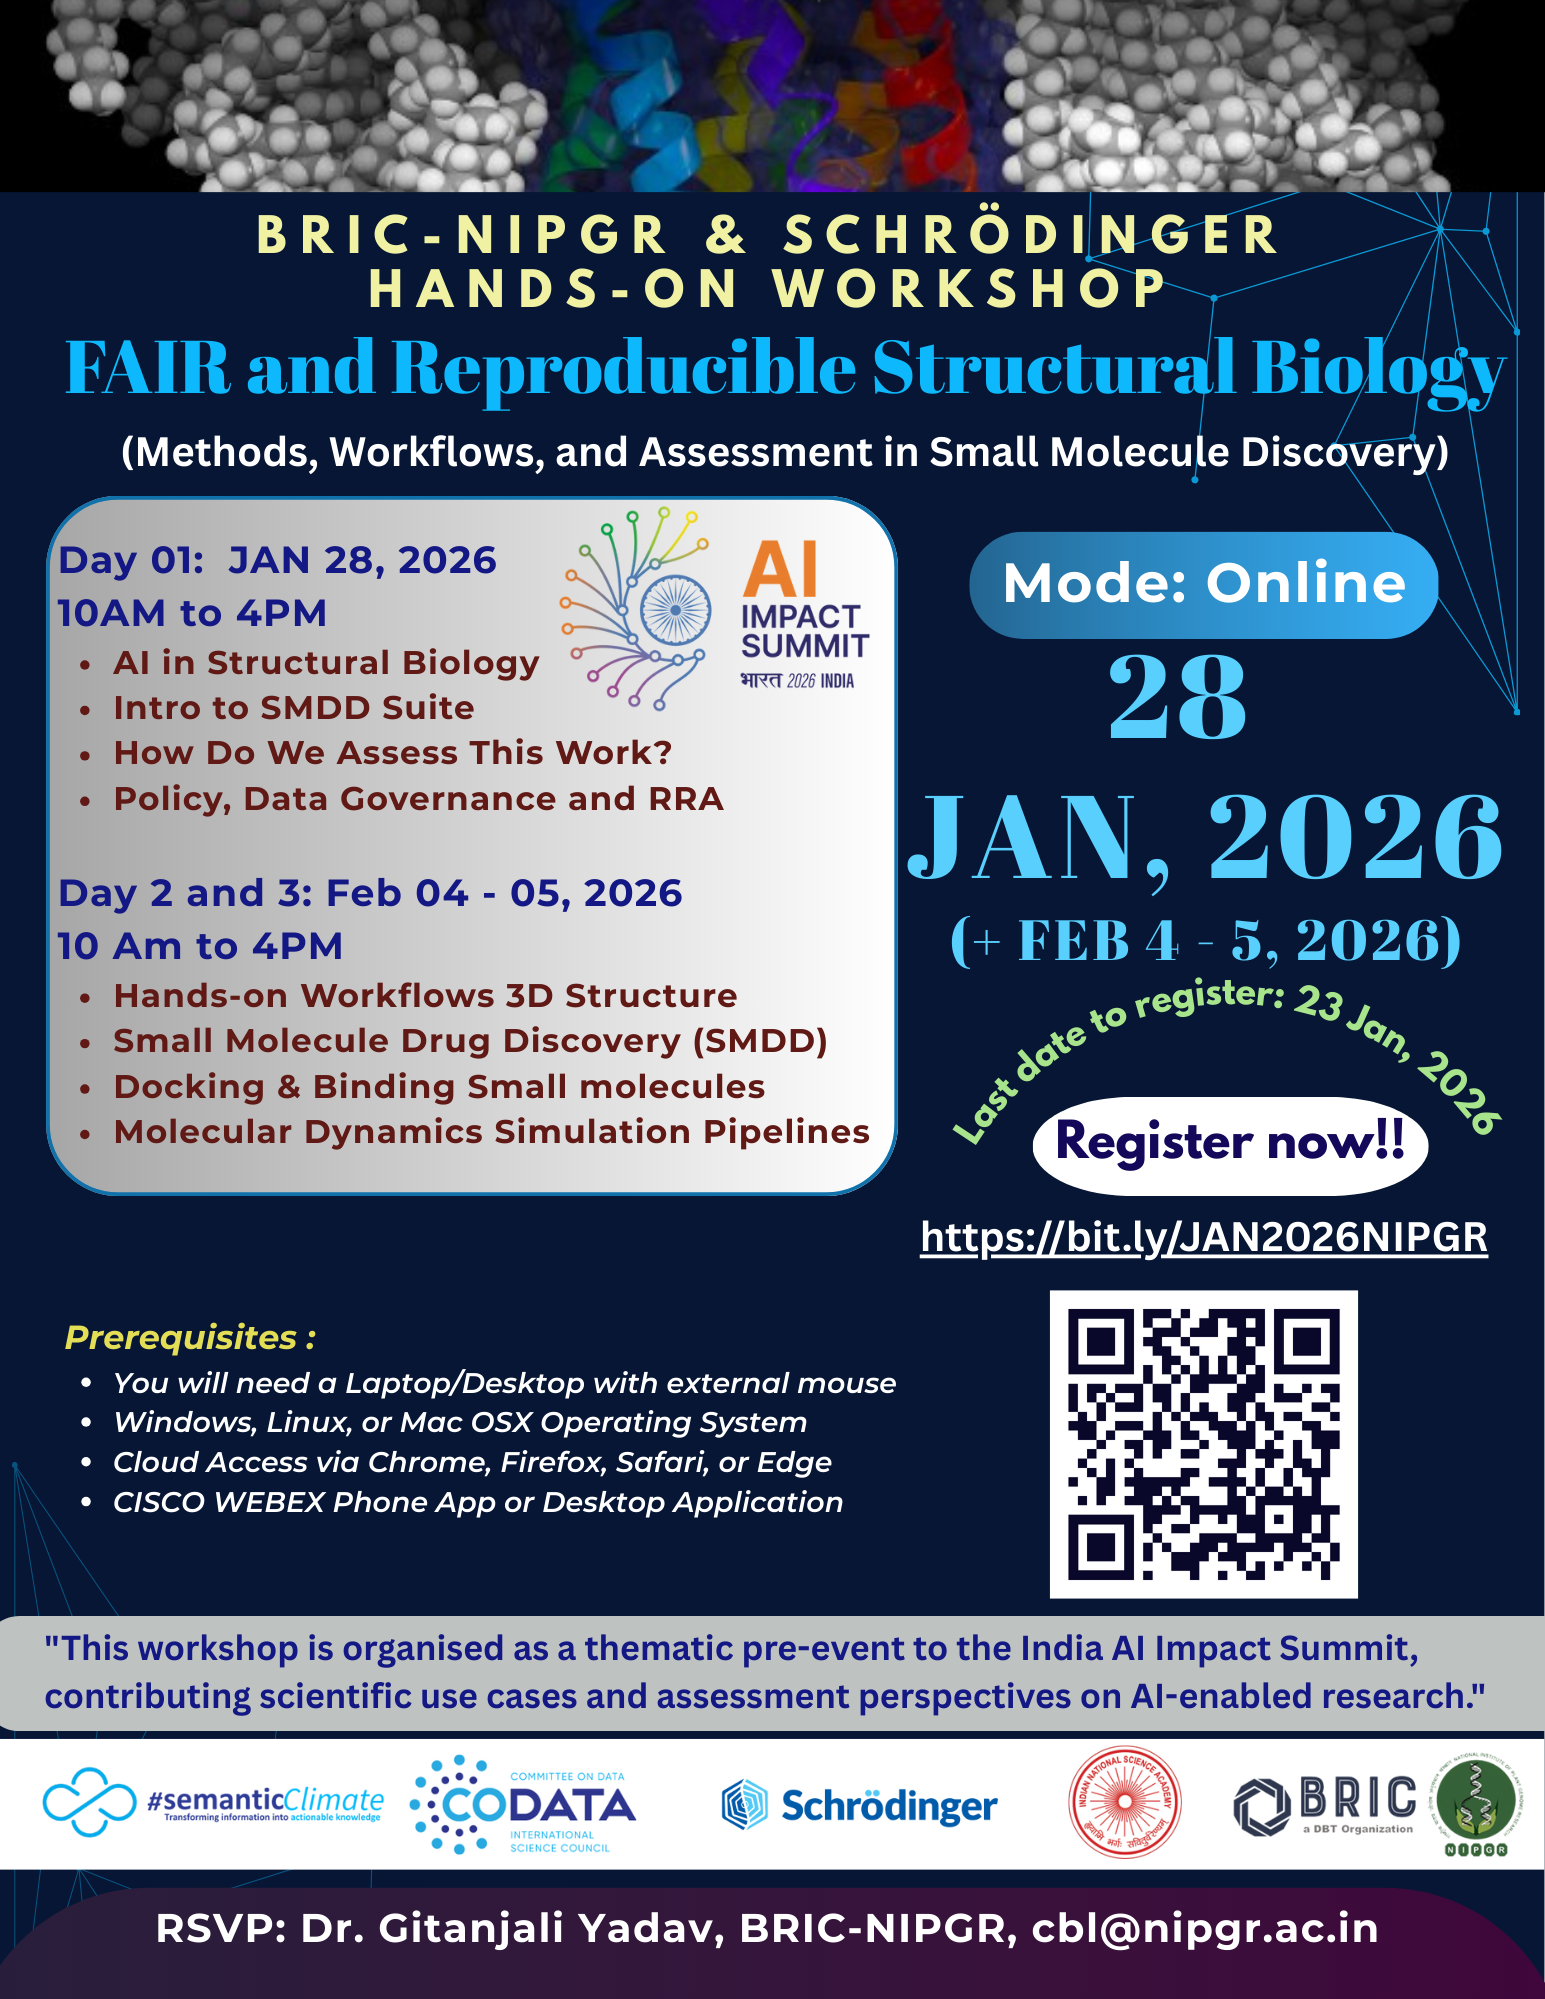
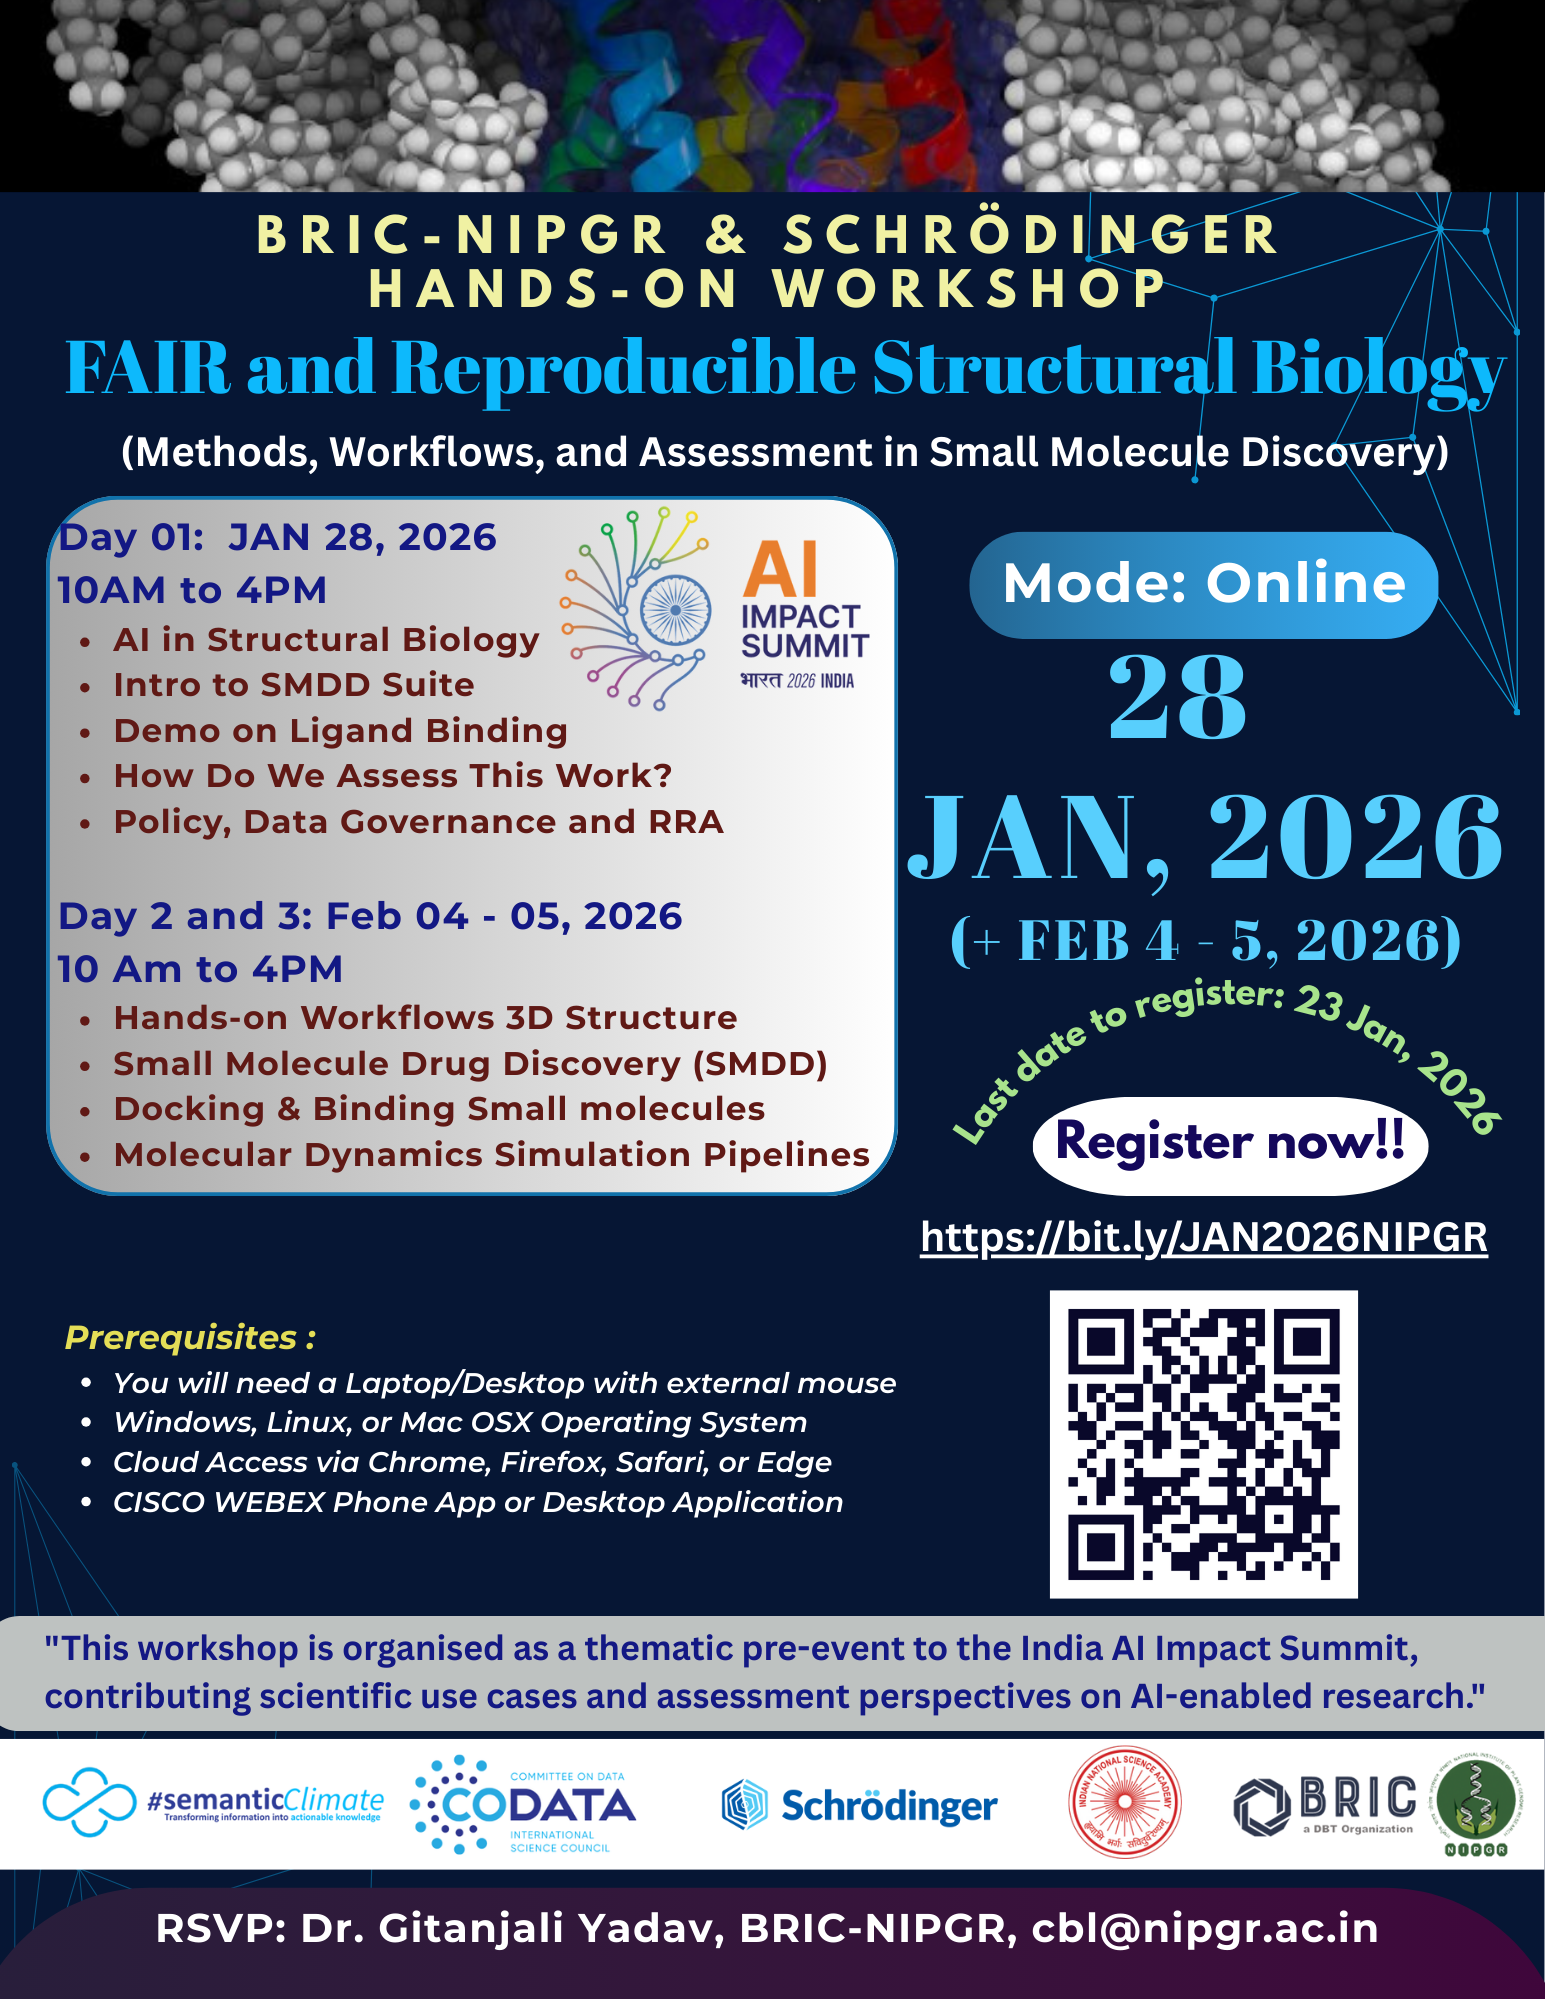
updated programme

Changed region(s): [[0.0311, 0.2481, 0.5592, 0.5893]]

diff --git a/en/events/JAN2026_workshop.md b/en/events/JAN2026_workshop.md
@@ -39,7 +39,7 @@ The workshop aims to:
 
 ### Format
 
-**Full-day, hybrid workshop combining:**
+**Full-day, online workshop combining:**
 
 - Lead talks (scientific + policy perspectives)
 
@@ -54,7 +54,7 @@ The workshop aims to:
 ### DAY 01 : JANUARY 28, 2026
 
 - **Session 1:** AI in Structural Biology – State of the Art
-- **Session 2:** Introduction to Small Molecule Drug Discovery (SMDD) Suite 
+- **Session 2:** Introduction to Small Molecule Drug Discovery (SMDD) Suite, Demo on Ligand Binding 
 - **Session 3:** Reproducibility, Provenance, and Explainability in AI-driven Science 
 - **Session 4:** How Do We Assess This Work? Beyond Publications and Impact Factors
 - **Session 5:** Reflections for Policy, Data Governance, and ORAT Development
@@ -79,5 +79,5 @@ The workshop aims to:
 - Dr. Gitanjali Yadav, BRIC-NIPGR
 - Prof. Peter Murray-Rust, University of Cambridge
 
-#### Full Agenda : To be shared with selected participants 
+#### Full Programme : To be shared with selected participants 
 
